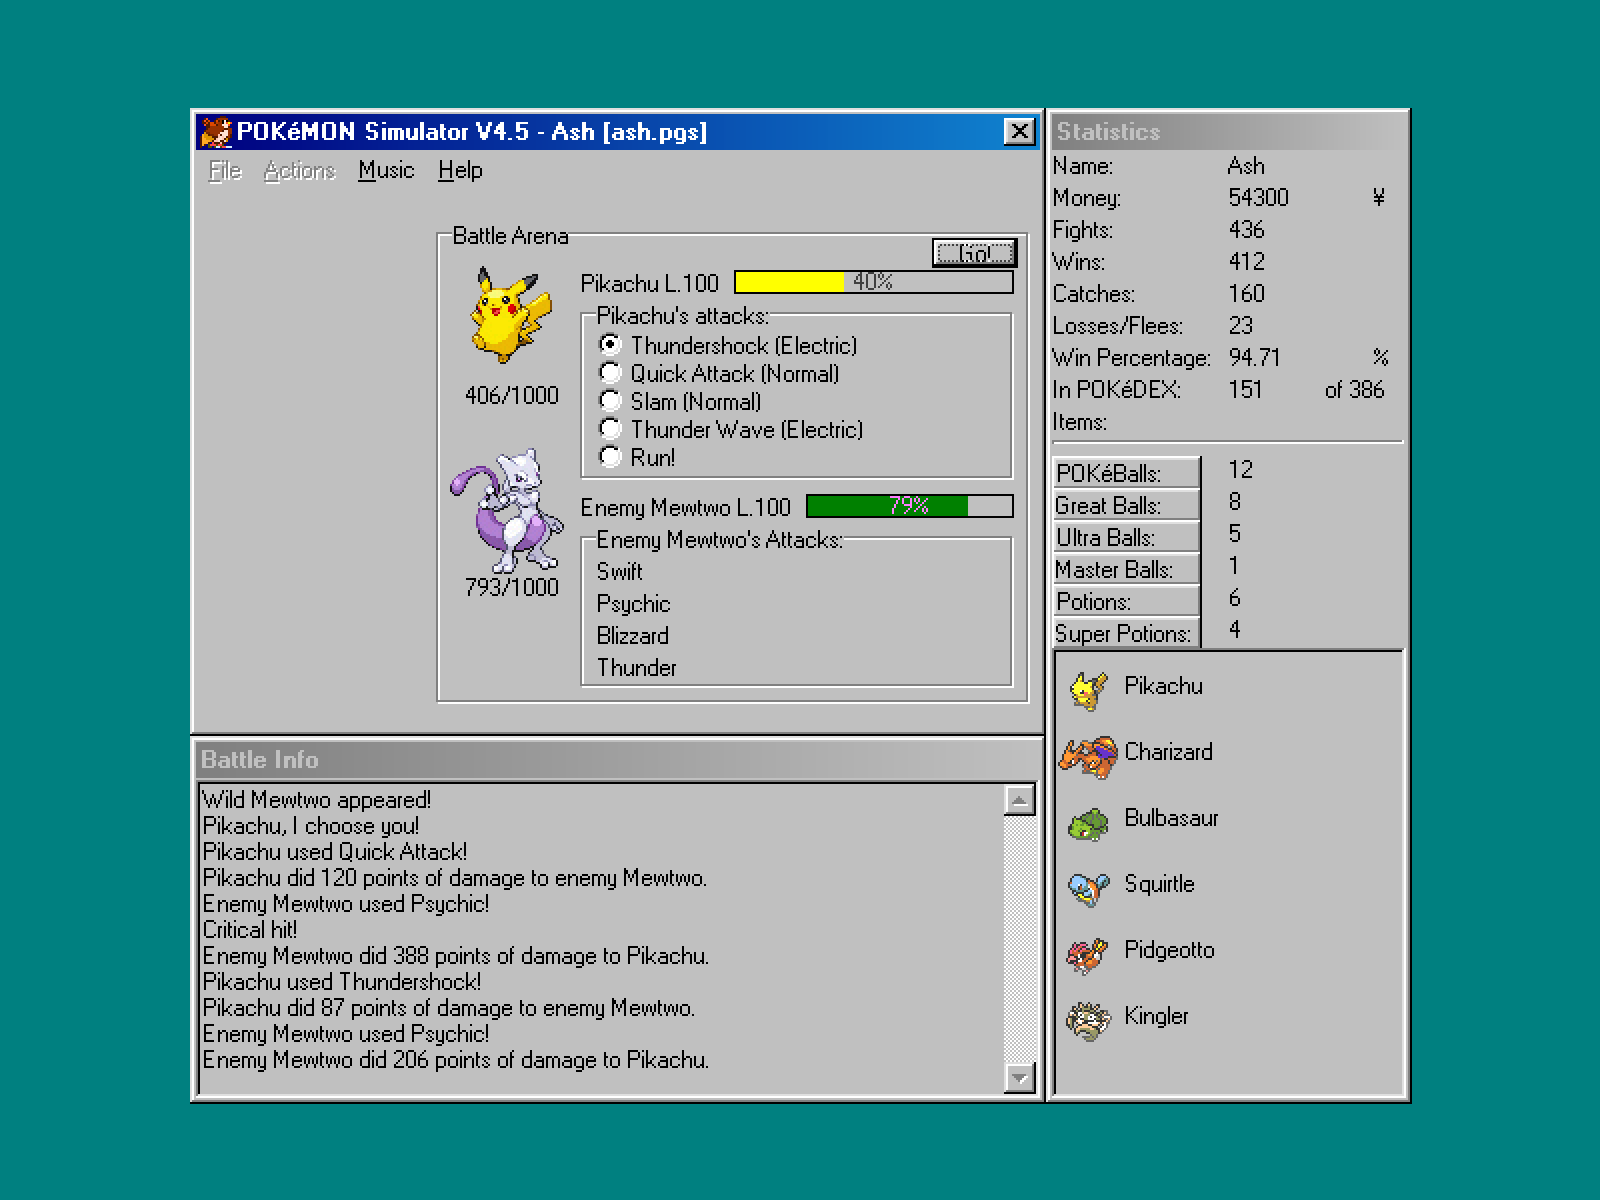
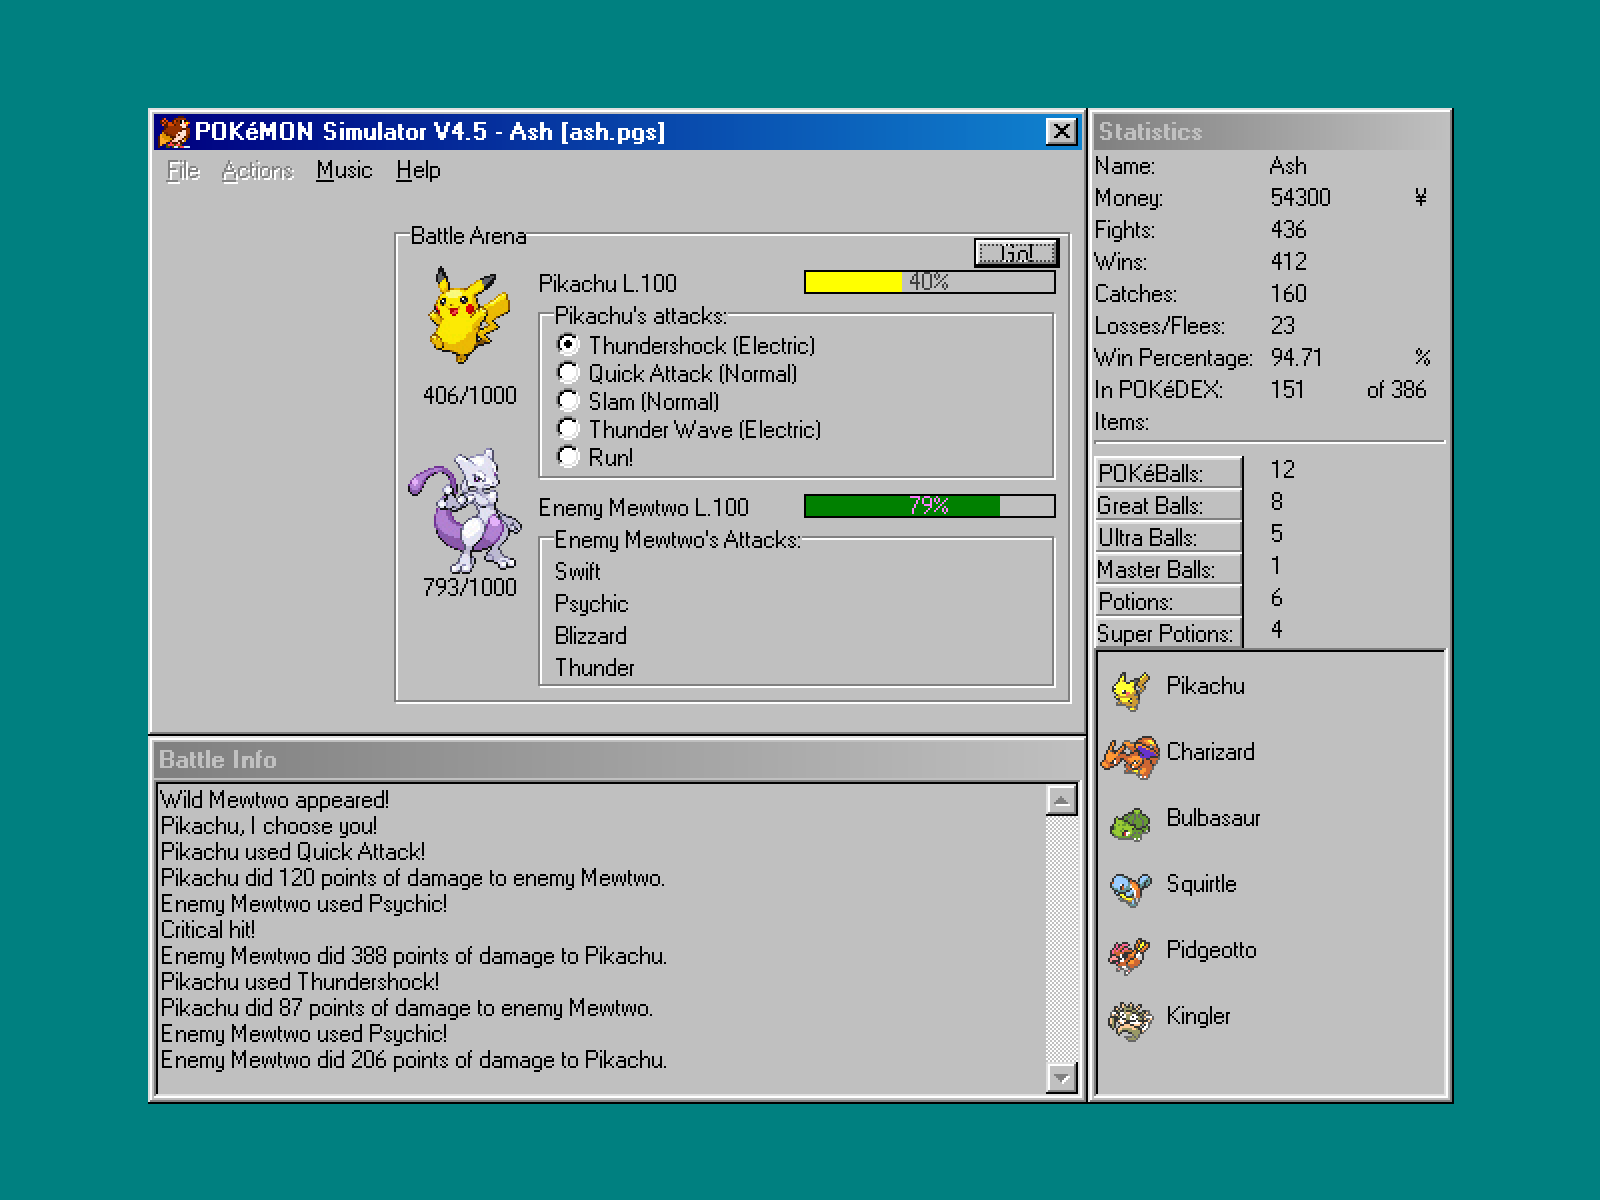
docs: describe filling the screen and the interface changes

diff --git a/docs/improvements.md b/docs/improvements.md
@@ -5,6 +5,8 @@ The original POKéMON Simulator V4.5 doesn't have these. The port's v4.5.0 is th
 - [Animated sprites](#animated-sprites)
 - [Shiny POKéMON](#shiny-pokémon)
 - [Don't show this message again](#dont-show-this-message-again)
+- [Fill the screen](#fill-the-screen)
+- [Small interface changes](#small-interface-changes)
 - [Where the choices are kept](#where-the-choices-are-kept)
 
 ## Animated sprites
@@ -28,6 +30,21 @@ A POKéMON found with Actions → Fight a wild POKéMON → Search for a POKéMO
 ## Don't show this message again
 
 The message every battle starts with, "Select a POKéMON from the Statistics Window", has a check box that hides it from then on. To bring it back, check Select a POKéMON reminder in File → Preferences..., under Messages, or click Restore Defaults there.
+
+## Fill the screen
+
+Fill the screen, in File → Preferences..., under Layout, docks the game's windows edge to edge instead of side by side:
+
+- **Statistics** goes down the right edge, at the full height, so more of your party shows at once.
+- **Battle Info** goes along the bottom, against Statistics, with room for longer lines.
+- **The game window** takes the rest, with the Battle Arena in its middle.
+
+The three windows stay in place. The other windows, such as the POKéDEX, open over them as usual. Separate windows (classic), the default, puts them back side by side. The game's screen is 800×600, so in a wider window the bars at its sides stay.
+
+## Small interface changes
+
+- **The starter choice** opens in the middle of the screen. Once you choose, the game window moves beside the Statistics and Battle Info windows, unless you moved it yourself.
+- **The HP bars** in the Battle Arena are the same width for both POKéMON, and longer: the game window and Battle Info are 42 pixels wider to make room. The original started each bar after its POKéMON's name, so the enemy's, with "Enemy" before the name, was usually the shorter.
 
 ## Where the choices are kept
 

diff --git a/assets/help/menus.md b/assets/help/menus.md
@@ -4,7 +4,7 @@
 
 Export POKéMON Information…: Exports information about your POKéMON to an HTML file. It also exports which POKéMON are in your POKéDEX.
 
-Preferences…: Opens the Preferences window, where the categories are listed on the left. Under Graphics, Enable animated sprites plays POKéMON Emerald's animation when a POKéMON comes into the Battle Arena: the wild POKéMON when it appears, and yours when you choose it. The POKéDEX plays it too, for the POKéMON you choose there. Under Messages, Select a POKéMON reminder shows the message that starts each battle, which its own Don't show this message again box can also hide. Restore Defaults puts every option back as it first was. Your choices are kept for the next time you play.
+Preferences…: Opens the Preferences window, where the categories are listed on the left. Under Graphics, Enable animated sprites plays POKéMON Emerald's animation when a POKéMON comes into the Battle Arena: the wild POKéMON when it appears, and yours when you choose it. The POKéDEX plays it too, for the POKéMON you choose there. Under Messages, Select a POKéMON reminder shows the message that starts each battle, which its own Don't show this message again box can also hide. Under Layout, Fill the screen puts Statistics down the right edge and Battle Info along the bottom, and gives the game window the rest; Separate windows (classic) puts them side by side, as they first were. Restore Defaults puts every option back as it first was. Your choices are kept for the next time you play.
 
 Quit: Quits the game. You can also click the X in the corner of the window. Your game is automatically saved when you exit.
 

diff --git a/README.md b/README.md
@@ -55,6 +55,8 @@ The original doesn't have these:
 - Animated sprites
 - Shiny POKéMON
 - Don't show this message again
+- Fill the screen
+- Small interface changes
 
 More details: [docs/improvements.md](docs/improvements.md).
 
